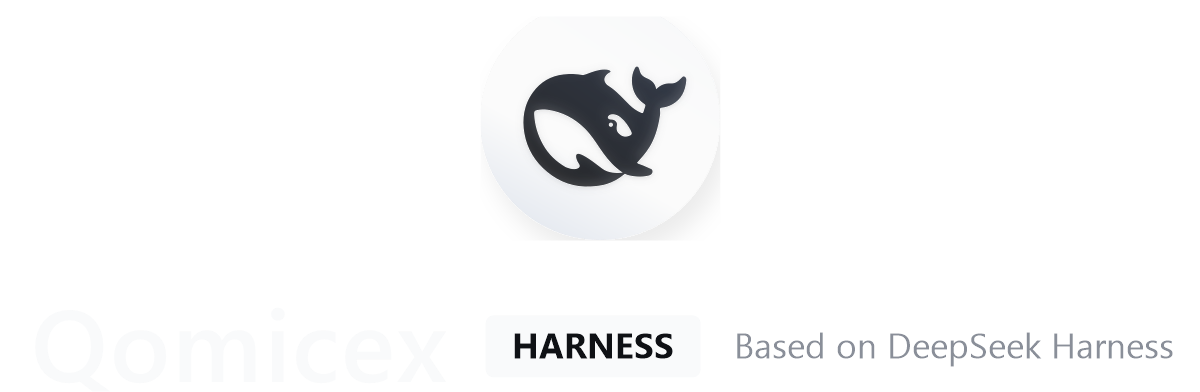
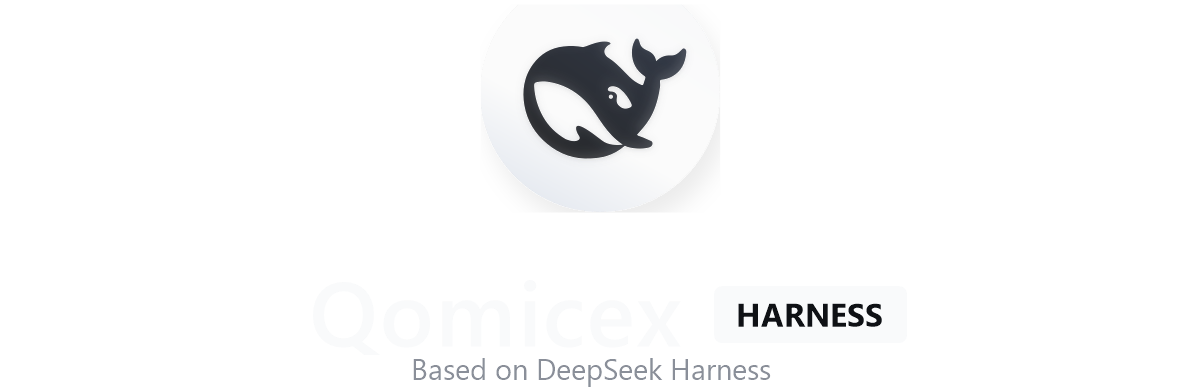
fix(desktop): 品牌 Based 行独立成行 + bundle 改用 alwaysBundle
- 4 张品牌图从原始鲸鱼图重生成：Qomicex HARNESS 字标 + Based on DeepSeek Harness 独立成行居中（此前同行的排布被反馈难看）
- tsdown noExternal 改为 deps.alwaysBundle：noExternal 会被打包 workflow 的根级 workspace 构建忽略（首个 release 即因此未 bundle，启动崩 js-yaml）；alwaysBundle 下 main.js 378KB 自包含，js-yaml 等三方闭包随行
- 本地端到端验证：新 bundle 装入打包副本启动，主进程无崩溃、欢迎窗正常渲染

Changed region(s): [[0.3392, 0.7653, 0.9867, 0.9796], [0.4317, 0.0918, 0.5858, 0.4898]]

diff --git a/apps/desktop/tsdown.config.ts b/apps/desktop/tsdown.config.ts
@@ -47,11 +47,11 @@ export default defineConfig([
     // The first-party workspace deps travel inside the bundle: the app's
     // packaged node_modules cannot carry their closure, because vendored
     // manifests declare `workspace:~` ranges that the packer's collector
-    // silently skips (cosmokit via cordis). Bundling the main process keeps
-    // the launch path self-contained; third-party and native deps stay
+    // silently skips (cordis's cosmokit). `alwaysBundle` rather than the
+    // deprecated `noExternal`: the workspace-level build this config also
+    // takes part in ignores `noExternal`. Third-party and native deps stay
     // external for the packer to collect.
-    noExternal: [/^@deepseek-ai\//],
-    deps: { neverBundle: ['electron'] },
+    deps: { alwaysBundle: [/^@deepseek-ai\//], neverBundle: ['electron'] },
   },
   ...(['preload-app', 'preload-welcome', 'preload-platform-account', 'preload-mandatory', 'preload-update-dialog'] as const).map(name => ({
     // Sandboxed Electron preloads run as CommonJS even though the application package is ESM.

diff --git a/.agents/notes/implemented/feature/2026-09-26-desktop-installer-brand-runtime-deps.md b/.agents/notes/implemented/feature/2026-09-26-desktop-installer-brand-runtime-deps.md
@@ -14,9 +14,9 @@ Three independent fixes on the desktop packaging surface:
 
 1. **Directory flow.** The template inserts `MUI_PAGE_DIRECTORY` only behind `allowToChangeInstallationDirectory`; the branded welcome page already carries the path controls, so the config now sets it to `false`. The template's `instFilesPre` sanitizer (which appends the application-name subfolder to `$INSTDIR`) disappears with that branch, so `InstallerSanitizeInstallDir` in `lifecycle.nsh` performs the same rule inside `InstallerBeforeInstall`.
 
-2. **Runtime dependency closure.** The app's main process imports workspace packages at runtime, but they sat in `devDependencies` (the original Electron-packaging commit classified them there) and electron-builder's collector only packs production dependencies: `dsh-app-boot`, `dsh-deepseek-account` and `dsh-home-paths` moved to `dependencies`. That alone is insufficient: the vendored `cordis` manifest declares `@deepseek-ai/cosmokit: workspace:~`, a range the collector silently skips, so the packaged closure stays truncated no matter which direct dependencies are declared. The main process therefore bundles its first-party closure: `tsdown` runs with `noExternal: [/^@deepseek-ai\//]`, and `lib/main.js` (185 KB) becomes self-contained (369 KB). This mirrors the renderer, which already bundles through Vite; third-party and native dependencies stay external for the collector.
+2. **Runtime dependency closure.** The app's main process imports workspace packages at runtime, but they sat in `devDependencies` (the original Electron-packaging commit classified them there) and electron-builder's collector only packs production dependencies: `dsh-app-boot`, `dsh-deepseek-account` and `dsh-home-paths` moved to `dependencies`. That alone is insufficient: the vendored `cordis` manifest declares `@deepseek-ai/cosmokit: workspace:~`, a range the collector silently skips, so the packaged closure stays truncated no matter which direct dependencies are declared. The main process therefore bundles its first-party closure: `tsdown` runs with `deps.alwaysBundle: [/^@deepseek-ai\//]` (the deprecated `noExternal` form is ignored by the workspace-level root build the packaging workflow runs — the first release shipped unbundled and crashed on `js-yaml`), and `lib/main.js` becomes self-contained, third-party closure included. This mirrors the renderer, which already bundles through Vite; native dependencies stay external for the collector.
 
-3. **Brand.** The installer brand images (light and dark, 1x and 2x) are regenerated with the whale mark lifted from the previous artwork and the wordmark re-set as `Qomicex HARNESS` plus a gray `Based on DeepSeek Harness` line beside it.
+3. **Brand.** The installer brand images (light and dark, 1x and 2x) are regenerated from the pristine artwork's whale mark with the wordmark re-set as `Qomicex HARNESS`, and `Based on DeepSeek Harness` on its own row beneath it.
 
 ## Consequences
 

diff --git a/apps/desktop/README.md b/apps/desktop/README.md
@@ -54,7 +54,7 @@ The [thin-wrapper decision](../../.agents/notes/implemented/architecture/2026-09
 
 Electron owns `$DSH_HOME/profiles/desktop`. Its `dependencies` contains packages installed by pnpm; `dsh.profile.bundles` contains the built-in bundles followed by enabled plugins. The signed application supplies dsh, the private Desktop Host, and their production packages from `resources/app.asar/dsh`. Packaged applications select runtime profile resolution without creating package links; development profiles use filesystem links. Both host and plugins execute in the same Electron Node-mode process; Desktop does not enable `--preserve-symlinks`. The CLI cannot boot or mutate this profile.
 
-The Electron shell bundles its own first-party workspace dependencies into `lib/main.js` at build time (tsdown `noExternal` for `@deepseek-ai/*`), so the shell's main process never resolves those packages from the packaged `node_modules`. The packaged closure would otherwise be truncated: vendored manifests declare `workspace:~` ranges, which electron-builder's collector cannot resolve and silently skips (cordis's `@deepseek-ai/cosmokit`). Third-party and native dependencies stay external for the collector, and the renderer keeps its separate Vite bundle.
+The Electron shell bundles its own first-party workspace dependencies into `lib/main.js` at build time (tsdown `deps.alwaysBundle` for `@deepseek-ai/*`, which carries their third-party closure such as `js-yaml`; the deprecated `noExternal` form is ignored by the workspace-level build the packaging workflow runs), so the shell's main process never resolves those packages from the packaged `node_modules`. The packaged closure would otherwise be truncated: vendored manifests declare `workspace:~` ranges, which electron-builder's collector cannot resolve and silently skips (cordis's `@deepseek-ai/cosmokit`). Third-party and native dependencies stay external for the collector, and the renderer keeps its separate Vite bundle.
 
 Native packages that load a library by an explicit path ship whole in the unpacked plane: electron-builder unpacks every native binary, and a package whose load path derives from module resolution — the Cua Driver platform package opens its DLL from the directory of its resolved `package.json` — additionally unpacks the whole package so that directory is real. The Host rewrites each resolved module URL onto its unpacked file when that file exists, so a native library receives a real filesystem path while every packed module keeps reading from the archive.
 

diff --git a/.agents/notes/implemented/feature/2026-09-26-desktop-installer-brand-runtime-deps.zh.md b/.agents/notes/implemented/feature/2026-09-26-desktop-installer-brand-runtime-deps.zh.md
@@ -14,9 +14,9 @@ Desktop workflow 第一次端到端产出的安装包（release v0.1.7-rc.1.7）
 
 1. **目录流程。** 模板仅在 `allowToChangeInstallationDirectory` 背后插入 `MUI_PAGE_DIRECTORY`；品牌欢迎页已自带路径选择控件，配置改为 `false`。随该分支一起消失的还有模板的 `instFilesPre`（把 `$INSTDIR` 补上应用名子目录的 sanitizer），改由 `lifecycle.nsh` 的 `InstallerSanitizeInstallDir` 在 `InstallerBeforeInstall` 中执行同一规则。
 
-2. **运行期依赖闭包。** 主进程运行期导入 workspace 包，而这些包原先位于 `devDependencies`（Electron 打包初始提交即如此分类），electron-builder 收集器只收生产依赖：`dsh-app-boot`、`dsh-deepseek-account`、`dsh-home-paths` 移入 `dependencies`。仅此不够：vendored `cordis` 清单声明 `@deepseek-ai/cosmokit: workspace:~`，该范围被收集器静默跳过，无论声明哪些直接依赖，打包闭包都是截断的。主进程因此改为 bundle 一方依赖：`tsdown` 增加 `noExternal: [/^@deepseek-ai\//]`，`lib/main.js`（185 KB）自包含（369 KB）。与 renderer 经 Vite bundle 的做法一致；三方与原生依赖仍外联，由收集器打包。
+2. **运行期依赖闭包。** 主进程运行期导入 workspace 包，而这些包原先位于 `devDependencies`（Electron 打包初始提交即如此分类），electron-builder 收集器只收生产依赖：`dsh-app-boot`、`dsh-deepseek-account`、`dsh-home-paths` 移入 `dependencies`。仅此不够：vendored `cordis` 清单声明 `@deepseek-ai/cosmokit: workspace:~`，该范围被收集器静默跳过，无论声明哪些直接依赖，打包闭包都是截断的。主进程因此改为 bundle 一方闭包：`tsdown` 使用 `deps.alwaysBundle: [/^@deepseek-ai\//]`（已废弃的 `noExternal` 写法会被打包 workflow 所用的根级 workspace 构建忽略——首个 release 正因此未打包而在 `js-yaml` 上崩溃），`lib/main.js` 自包含（三方闭包随行）。与 renderer 经 Vite bundle 的做法一致；原生依赖仍外联，由收集器打包。
 
-3. **品牌。** 安装器品牌图（明/暗、1x/2x）重新生成：鲸鱼图形自原图提取，字标重排为 `Qomicex HARNESS`，旁置灰色 `Based on DeepSeek Harness` 小字。
+3. **品牌。** 安装器品牌图（明/暗、1x/2x）从原始图的鲸鱼图形重新生成，字标重排为 `Qomicex HARNESS`，`Based on DeepSeek Harness` 独立成行置于其下。
 
 ## 后果
 

diff --git a/apps/desktop/README.zh.md b/apps/desktop/README.zh.md
@@ -54,7 +54,7 @@ Node 准备内置解释器和 Python 库，无需系统 Python 或 pip。[下载
 
 Electron 拥有 `$DSH_HOME/profiles/desktop`。其 `dependencies` 包含 pnpm 安装的包；`dsh.profile.bundles` 包含内置 bundle，后接已启用插件。签名应用从 `resources/app.asar/dsh` 提供 dsh、私有 Desktop Host 及其生产依赖。打包应用选择 runtime profile 解析，不创建包链接；开发 profile 使用文件系统链接。宿主与插件在同一个 Electron Node 模式进程中执行；Desktop 不启用 `--preserve-symlinks`。CLI 不能启动或修改此 profile。
 
-Electron 壳在构建期将自己的一方 workspace 依赖打入 `lib/main.js`（tsdown 对 `@deepseek-ai/*` 使用 `noExternal`），主进程运行期不从打包的 `node_modules` 解析这些包。否则打包闭包会被截断：vendored 清单声明 `workspace:~` 范围，electron-builder 收集器无法解析并静默跳过（cordis 的 `@deepseek-ai/cosmokit`）。三方与原生依赖保持外联由收集器打包；renderer 继续走独立的 Vite bundle。
+Electron 壳在构建期将自己的一方 workspace 依赖打入 `lib/main.js`（tsdown 对 `@deepseek-ai/*` 使用 `deps.alwaysBundle`，其三方闭包如 `js-yaml` 随行；已废弃的 `noExternal` 写法会被打包 workflow 所用的根级 workspace 构建忽略），主进程运行期不从打包的 `node_modules` 解析这些包。否则打包闭包会被截断：vendored 清单声明 `workspace:~` 范围，electron-builder 收集器无法解析并静默跳过（cordis 的 `@deepseek-ai/cosmokit`）。三方与原生依赖保持外联由收集器打包；renderer 继续走独立的 Vite bundle。
 
 按显式路径加载库的原生包整体进入解包平面：electron-builder 会解包每个原生二进制文件，而加载路径由模块解析推导的包——Cua Driver 平台包从解析出的 `package.json` 所在目录打开其 DLL——还会整体解包，使该目录成为真实路径。Host 在每个模块 URL 存在对应解包文件时把它重写到解包文件，从而让原生库拿到真实文件系统路径，同时所有打包模块仍从归档内读取。
 
